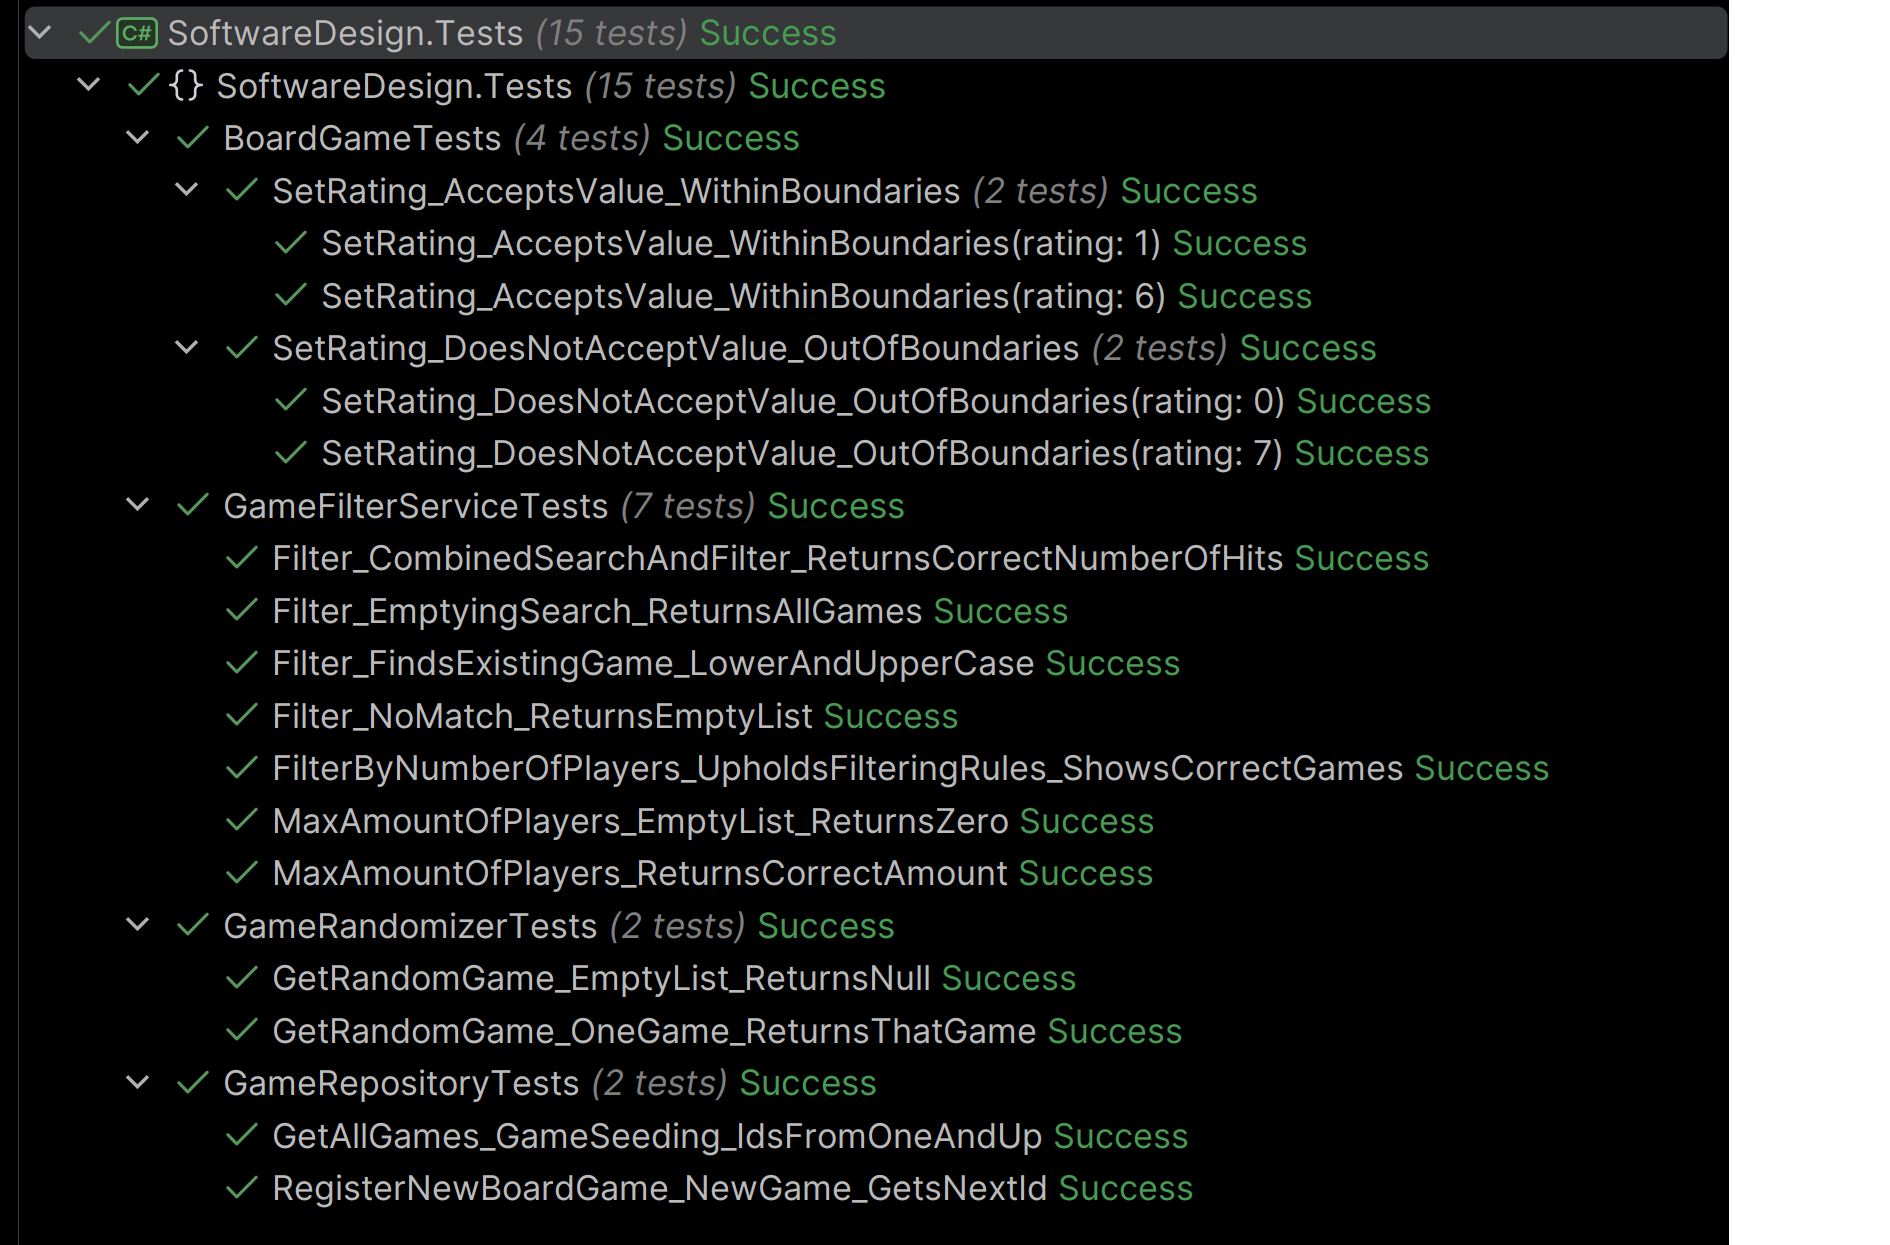
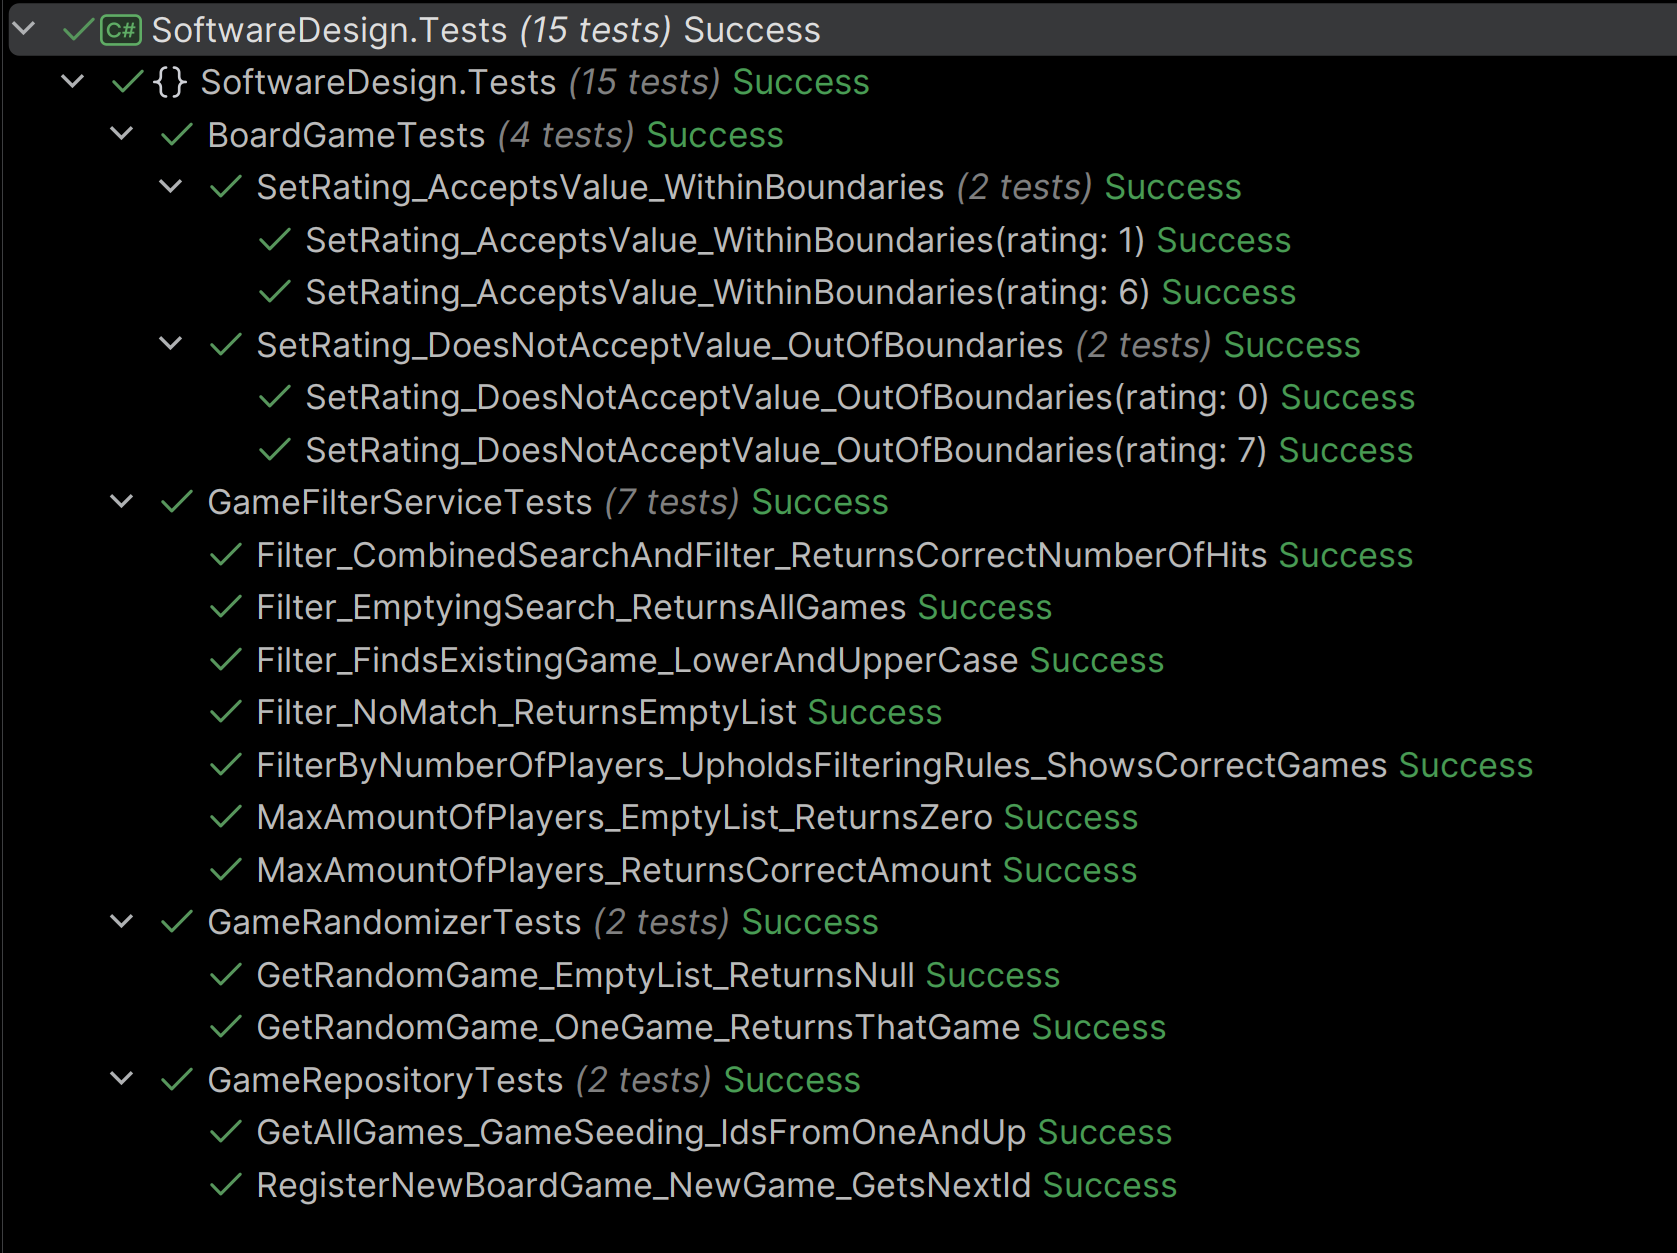
update screenshot for tests run due to vertical white line at the right side of the old screenshot.

Changed region(s): [[0.0, 0.0, 1.0, 1.0]]

diff --git a/SoftwareDesign.Tests/README.md b/SoftwareDesign.Tests/README.md
@@ -7,9 +7,9 @@ Testing Documentation
 Must contain:
 - ~~At least 5 automated tests in its own test project (add test data and screenshots here)~~
 - At least 3 tests should cover logic outside the components, example: GameNightState, filtering, or validation
-- At least 1 test should test a component, example: DiceRating sending the correct value through ValueChanged. Can use bUnit
+- At least 1 test should test a component, example: DiceRating (Rating) sending the correct value through ValueChanged. Can use bUnit
 - Tests should cover normal use and edge cases
-- Write a manual test log for test cases in task 1-4 that aren't automated. Log should show test case, steps, expected result
+- Write a manual test log for test cases in ~~task 1~~,2, 3, 4 that aren't automated. Log should show test case, steps, expected result
   and actual result.
 
 
@@ -25,11 +25,14 @@ Must contain:
 ---
 
 ## Manual Test Log
+_Note:  
+Since writing this section, one change to the style of the page has been made. The button `Choose a random game!` 
+is now called `🎲Roll the die`_
 
 **Case: _Search with no hits, clicking "Choose a random game!" does not crash_**
 - Search for something that yields no hits
 - Number of players: `Any`
-- Click `Choose a random game!`
+- Click `🎲Roll the die`
 
 **Expected result:**  
 - `Hits: 0`
@@ -43,7 +46,7 @@ Must contain:
 
 **Case: _Search with hits, random game highlight working_**  
 - Search for something that yields at least 2 results
-- Click `Choose a random game!`
+- Click `🎲Roll the die`
 
 **Expected result:**
 - `Hits: 2`
